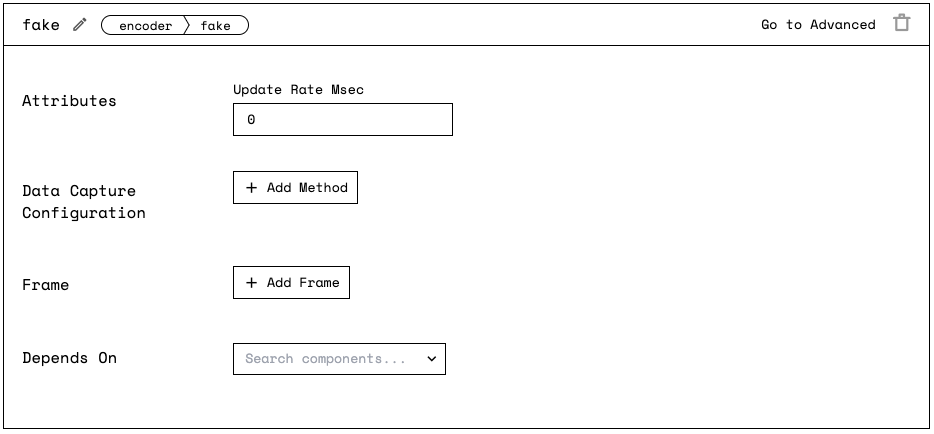
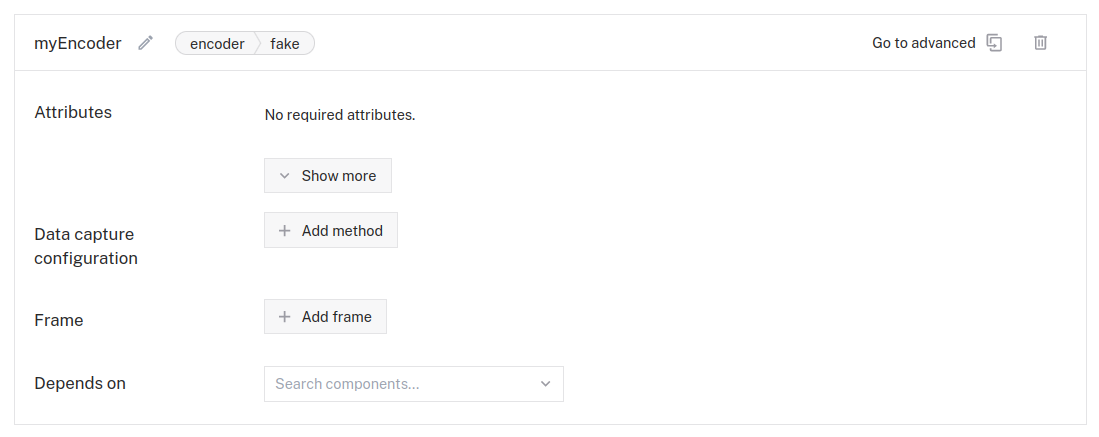
DOCS-1017: Document new fancy encoder config

diff --git a/docs/components/encoder/fake.md b/docs/components/encoder/fake.md
@@ -20,7 +20,7 @@ Enter a name for your encoder, select the type `encoder`, and select the `fake` 
 
 Click **Create component**.
 
-{{< imgproc src="/components/encoder/configure-fake.png" alt="Configuration of a fake encoder in the Viam app config builder." resize="600x" >}}
+![Configuration of a fake encoder in the Viam app config builder.](/components/encoder/configure-fake.png)
 
 {{% /tab %}}
 {{% tab name="JSON Template" %}}
@@ -28,6 +28,18 @@ Click **Create component**.
 ```json {class="line-numbers linkable-line-numbers"}
 {
     "name": "<your-encoder-name>",
+    "type": "encoder",
+    "model" : "fake",
+    "attributes": {}
+}
+```
+
+{{% /tab %}}
+{{% tab name="JSON Example" %}}
+
+```json {class="line-numbers linkable-line-numbers"}
+{
+    "name": "myEncoder",
     "type": "encoder",
     "model" : "fake",
     "attributes": {}
